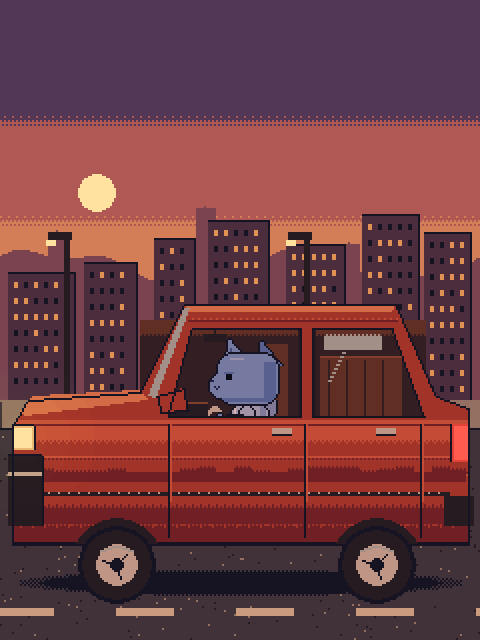
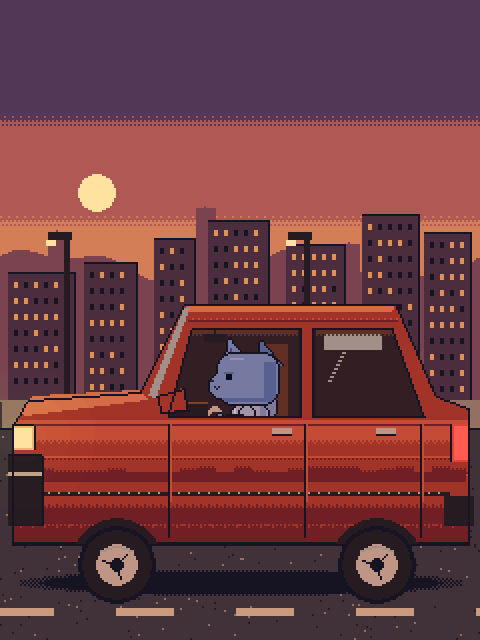
Carro: interior recortado pelas janelas, sem banco traseiro, e trava contra vazamento
- vehicle_back pintava o interior além do contorno da carroceria (teto, capô, coluna A) e ele
  aparecia sobre o fundo; agora é recortado pelas janelas (Car.FRONT_WINDOW/REAR_WINDOW, mesma
  geometria dos vãos da carroceria) e o banco traseiro foi retirado (decisão do usuário)
- TransportSceneQualityTest.interiorNeverLeaksOutsideTheWindows (flood fill do exterior da frente),
  theCarWindowsAreClosedOpenings e um controle sintético; interiores de quadro cheio não se aplicam
- car.aseprite regerado (fonte + cópia do app); goldens do carro regravados
  (car-scenes-v1 e car_day/car_night em transport-scenes-v1) e imagens de revisão do carro
- scene-art-status.json: carro bootstrap-v2, aprovado no chat em 09/10/2026
- docs: transport-art-progress e bíblia de arte §6

Changed region(s): [[0.6562, 0.5, 0.9062, 0.6562], [0.2812, 0.5, 0.375, 0.625]]

diff --git a/app/src/test/java/com/hoodie/app/pixel/transport/TransportSceneQualityTest.kt b/app/src/test/java/com/hoodie/app/pixel/transport/TransportSceneQualityTest.kt
@@ -221,6 +221,110 @@ class TransportSceneQualityTest {
         }
     }
 
+    // ───────────── Interior que não vaza ─────────────
+
+    private class CabinLeak(val pixels: Int, val box: String)
+
+    /** Transparente na frente do veículo e ligado à borda da tela = fora do veículo (4-vizinhança: contornos diagonais fecham). */
+    private fun exteriorOf(front: PixelBuffer): BooleanArray {
+        val w = front.width; val h = front.height
+        val out = BooleanArray(w * h)
+        val stack = ArrayDeque<Int>()
+        fun push(i: Int) { if (!out[i] && front.pixels[i] ushr 24 == 0) { out[i] = true; stack.addLast(i) } }
+        for (x in 0 until w) { push(x); push((h - 1) * w + x) }
+        for (y in 0 until h) { push(y * w); push(y * w + w - 1) }
+        while (stack.isNotEmpty()) {
+            val i = stack.removeLast(); val x = i % w; val y = i / w
+            if (x > 0) push(i - 1)
+            if (x < w - 1) push(i + 1)
+            if (y > 0) push(i - w)
+            if (y < h - 1) push(i + w)
+        }
+        return out
+    }
+
+    /** Silhueta livre: a frente do veículo não encosta em nenhuma borda (senão é interior de quadro cheio). */
+    private fun hasFreeSilhouette(front: PixelBuffer): Boolean {
+        val w = front.width; val h = front.height
+        for (x in 0 until w) if (front.pixels[x] ushr 24 != 0 || front.pixels[(h - 1) * w + x] ushr 24 != 0) return false
+        for (y in 0 until h) if (front.pixels[y * w] ushr 24 != 0 || front.pixels[y * w + w - 1] ushr 24 != 0) return false
+        return true
+    }
+
+    /** Pixels opacos de `vehicle_back` que a frente não cobre e que ficam fora do veículo. */
+    private fun interiorLeak(back: PixelBuffer, front: PixelBuffer): CabinLeak {
+        val w = back.width
+        val exterior = exteriorOf(front)
+        var n = 0; var x0 = Int.MAX_VALUE; var y0 = Int.MAX_VALUE; var x1 = -1; var y1 = -1
+        back.pixels.forEachIndexed { i, c ->
+            if (c ushr 24 != 0 && exterior[i]) { n++; x0 = min(x0, i % w); x1 = max(x1, i % w); y0 = min(y0, i / w); y1 = max(y1, i / w) }
+        }
+        return CabinLeak(n, if (n == 0) "-" else "x $x0..$x1, y $y0..$y1")
+    }
+
+    /** Aberturas fechadas da frente (janelas): regiões transparentes que não alcançam a borda. */
+    private fun enclosedOpenings(front: PixelBuffer): Int {
+        val w = front.width; val h = front.height
+        val exterior = exteriorOf(front)
+        val seen = BooleanArray(w * h)
+        var count = 0
+        for (start in 0 until w * h) {
+            if (seen[start] || exterior[start] || front.pixels[start] ushr 24 != 0) continue
+            count++
+            val stack = ArrayDeque<Int>().apply { addLast(start) }
+            seen[start] = true
+            while (stack.isNotEmpty()) {
+                val i = stack.removeLast(); val x = i % w; val y = i / w
+                fun visit(j: Int) { if (!seen[j] && !exterior[j] && front.pixels[j] ushr 24 == 0) { seen[j] = true; stack.addLast(j) } }
+                if (x > 0) visit(i - 1)
+                if (x < w - 1) visit(i + 1)
+                if (y > 0) visit(i - w)
+                if (y < h - 1) visit(i + w)
+            }
+        }
+        return count
+    }
+
+    /** O interior só aparece pelas janelas: nada de `vehicle_back` pode surgir fora da carroceria. */
+    @Test fun interiorNeverLeaksOutsideTheWindows() {
+        var checked = 0
+        scenes.keys.forEach { name ->
+            val art = SceneArtStore.get(name).also { assertNotNull("arte $name ausente", it) }!!
+            DayPeriod.entries.forEach { p ->
+                val back = art.layer("vehicle_back", p) ?: return@forEach
+                val front = art.layer("vehicle_front", p) ?: return@forEach
+                // Interior de quadro cheio (trem, metrô, ônibus): não há "fora do veículo" para vazar.
+                if (!hasFreeSilhouette(front)) return@forEach
+                checked++
+                val leak = interiorLeak(back, front)
+                assertEquals("$name/$p: interior vaza para fora da carroceria (${leak.pixels} px em ${leak.box})", 0, leak.pixels)
+            }
+        }
+        assertTrue("a trava não pode se desligar sozinha: nenhuma cena com silhueta livre foi verificada", checked >= DayPeriod.entries.size)
+    }
+
+    @Test fun theCarWindowsAreClosedOpenings() {
+        val front = SceneArtStore.get("car")!!.layer("vehicle_front", DayPeriod.DAY)!!
+        assertTrue("o carro precisa ter silhueta livre", hasFreeSilhouette(front))
+        val openings = enclosedOpenings(front)
+        assertTrue("janelas do carro: $openings abertura(s) fechada(s); esperadas ao menos 2 (frente e traseira)", openings >= 2)
+    }
+
+    /** Controle: a trava reprova um interior maior que a janela e aceita o mesmo interior recortado. */
+    @Test fun theLeakGuardCatchesALeakAndAcceptsAClippedInterior() {
+        // Escreve direto nos pixels: box() com cor transparente não apaga nada.
+        fun raw(b: PixelBuffer, x0: Int, y0: Int, x1: Int, y1: Int, c: Int) { for (y in y0..y1) for (x in x0..x1) b.pixels[y * b.width + x] = c }
+        val front = PixelBuffer(60, 40)
+        raw(front, 10, 10, 49, 29, 0xFF884433.toInt())      // carroceria
+        raw(front, 20, 15, 39, 24, 0)                         // janela (transparente, fechada)
+        val leaking = PixelBuffer(60, 40).also { raw(it, 14, 6, 45, 26, 0xFF3B2C34.toInt()) } // passa do teto (y 6..9)
+        val clipped = PixelBuffer(60, 40).also { raw(it, 20, 15, 39, 24, 0xFF3B2C34.toInt()) }
+        assertTrue(hasFreeSilhouette(front))
+        assertEquals(1, enclosedOpenings(front))
+        assertEquals("o vazamento deveria ser de 32 x 4 px", 32 * 4, interiorLeak(leaking, front).pixels)
+        assertEquals(0, interiorLeak(clipped, front).pixels)
+    }
+
     // ───────────── Revisão humana ─────────────
 
     private val status by lazy { ArtReviewStatus.parse(File("../assets-source/scenes/transport/scene-art-status.json").readText()) }

diff --git a/app/src/test/java/com/hoodie/app/pixel/art/SceneBootstrapStudio.kt b/app/src/test/java/com/hoodie/app/pixel/art/SceneBootstrapStudio.kt
@@ -56,6 +56,12 @@ object SceneBootstrapStudio {
             }
         }
         fun outlinePoly(c: Int, vararg p: Pair<Int, Int>) { for (i in p.indices) { val (a, b2) = p[i]; val (x1, y1) = p[(i + 1) % p.size]; line(a, b2, x1, y1, c) } }
+        /** Apaga tudo o que fica fora dos polígonos (mesma regra de preenchimento de [poly]): o que não está na janela nunca vira pixel de interior. */
+        fun clipTo(vararg polys: List<Pair<Int, Int>>) {
+            val keep = Canvas(PixelBuffer(b.width, b.height))
+            polys.forEach { keep.poly(1, *it.toTypedArray()) }
+            for (i in b.pixels.indices) if (keep.b.pixels[i] == 0) b.pixels[i] = 0
+        }
     }
 
     // ───────────── Paleta do carro (≤ 24 cores por período) ─────────────
@@ -101,6 +107,9 @@ object SceneBootstrapStudio {
         const val WHEEL_Y = 282
         const val WHEEL_R = 19
         val WHEELS = listOf(58, 188)
+        /** Vãos das janelas: usados pela carroceria (recorte) e pelo interior (recorte), para nunca saírem de sincronia. */
+        val FRONT_WINDOW = listOf(WIN_FRONT_X to WIN_TOP, WIN_MID_X to WIN_TOP, WIN_MID_X to BELT_Y - 2, 84 to BELT_Y - 2)
+        val REAR_WINDOW = listOf(WIN_MID_X + 6 to WIN_TOP, WIN_REAR_X to WIN_TOP, 212 to BELT_Y - 2, WIN_MID_X + 6 to BELT_Y - 2)
     }
 
     private fun hash(a: Int, b: Int): Int {
@@ -188,9 +197,7 @@ object SceneBootstrapStudio {
         // Encosto do motorista (atrás do Hoodie) e banco traseiro.
         rect(hoodieFeet.first + 6, Car.WIN_TOP + 8, hoodieFeet.first + 18, Car.BELT_Y, CarPalette.SEAT)
         vline(hoodieFeet.first + 6, Car.WIN_TOP + 8, Car.BELT_Y, CarPalette.SEAT_LIGHT)
-        rect(Car.WIN_MID_X + 10, Car.WIN_TOP + 14, Car.WIN_REAR_X + 4, Car.BELT_Y, CarPalette.SEAT)
-        for (x in Car.WIN_MID_X + 14..Car.WIN_REAR_X step 9) vline(x, Car.WIN_TOP + 16, Car.BELT_Y, CarPalette.INTERIOR)
-        hline(Car.WIN_MID_X + 10, Car.WIN_REAR_X + 4, Car.WIN_TOP + 14, CarPalette.SEAT_LIGHT)
+        // Sem banco traseiro: o interior visto pela janela traseira é só o forro escuro (decisão do usuário, 09/10/2026).
         // Janela do outro lado: céu recortado, pequeno e distante.
         rect(Car.WIN_MID_X + 12, Car.WIN_TOP + 3, Car.WIN_REAR_X - 6, Car.WIN_TOP + 10, CarPalette.GLASS_SHINE)
         // Forro do teto, retrovisor interno e borda do painel: o interior não fica chapado.
@@ -205,6 +212,8 @@ object SceneBootstrapStudio {
         ellipse(steering.first - 2, steering.second + 3, 5, 10, CarPalette.CHROME, ring = true)
         rect(Car.WIN_FRONT_X - 24, Car.BELT_Y - 8, steering.first - 6, Car.BELT_Y, CarPalette.TIRE)
         set(Car.WIN_FRONT_X - 16, Car.BELT_Y - 6, CarPalette.HEADLIGHT)
+        // O interior só pode aparecer pelas janelas: o que passava do contorno (teto, capô, coluna A) vazava sobre o fundo.
+        clipTo(Car.FRONT_WINDOW, Car.REAR_WINDOW)
     }
 
     /** Carroceria em três quartos com os vãos das janelas abertos (o interior aparece por baixo). */
@@ -219,8 +228,8 @@ object SceneBootstrapStudio {
         hline(94, 198, Car.ROOF_Y + 8, CarPalette.BODY_DARK)
         for (x in 94..198) if (x % 3 == 0) set(x, Car.ROOF_Y + 7, CarPalette.BODY_LIGHT)
         // Vãos das janelas (transparentes = interior).
-        poly(0, Car.WIN_FRONT_X to Car.WIN_TOP, Car.WIN_MID_X to Car.WIN_TOP, Car.WIN_MID_X to Car.BELT_Y - 2, 84 to Car.BELT_Y - 2)
-        poly(0, Car.WIN_MID_X + 6 to Car.WIN_TOP, Car.WIN_REAR_X to Car.WIN_TOP, 212 to Car.BELT_Y - 2, Car.WIN_MID_X + 6 to Car.BELT_Y - 2)
+        poly(0, *Car.FRONT_WINDOW.toTypedArray())
+        poly(0, *Car.REAR_WINDOW.toTypedArray())
         // Reflexo diagonal no vidro traseiro (luz da esquerda).
         for (k in 0..10) { set(Car.WIN_MID_X + 14 + k, Car.WIN_TOP + 26 - k * 2, CarPalette.GLASS_SHINE); set(Car.WIN_MID_X + 15 + k, Car.WIN_TOP + 26 - k * 2, CarPalette.GLASS_SHINE) }
         // Linha de cintura com brilho e vinco inferior.
@@ -263,8 +272,8 @@ object SceneBootstrapStudio {
         rect(0, 273, W - 1, H - 1, 0)
         // Contorno externo da silhueta.
         outlinePoly(o, 6 to 214, 14 to 200, 70 to 196, 92 to Car.ROOF_Y, 198 to Car.ROOF_Y, 218 to 198, 234 to 204, 234 to 272, 6 to 272)
-        outlinePoly(o, Car.WIN_FRONT_X to Car.WIN_TOP, Car.WIN_MID_X to Car.WIN_TOP, Car.WIN_MID_X to Car.BELT_Y - 2, 84 to Car.BELT_Y - 2)
-        outlinePoly(o, Car.WIN_MID_X + 6 to Car.WIN_TOP, Car.WIN_REAR_X to Car.WIN_TOP, 212 to Car.BELT_Y - 2, Car.WIN_MID_X + 6 to Car.BELT_Y - 2)
+        outlinePoly(o, *Car.FRONT_WINDOW.toTypedArray())
+        outlinePoly(o, *Car.REAR_WINDOW.toTypedArray())
     }
 
     /** Rodas e sombra: fixas no chão (não balançam com a carroceria). */

diff --git a/docs/transport-art-progress.md b/docs/transport-art-progress.md
@@ -6,7 +6,7 @@ frente e barra no primeiro plano — enquadramento do plano, sem rodada de thumb
 
 | Cena | Estado | Fonte | Revisão humana |
 |---|---|---|---|
-| Carro | aprovado (bootstrap-v1) | `assets-source/scenes/transport/car.aseprite` | aprovado no chat em 07/10/2026 |
+| Carro | aprovado (bootstrap-v2) | `assets-source/scenes/transport/car.aseprite` | aprovado no chat em 07/10/2026; v2 aprovada em 09/10/2026 |
 | Trem | aprovado (bootstrap-v1) | `assets-source/scenes/transport/train.aseprite` | aprovado no chat em 07/10/2026 |
 | Metrô | aprovado (bootstrap-v1) | `assets-source/scenes/transport/metro.aseprite` | aprovado no chat em 07/10/2026 |
 | Ônibus | aprovado (bootstrap-v1) | `assets-source/scenes/transport/bus.aseprite` | aprovado no chat em 07/10/2026 |
@@ -39,3 +39,9 @@ em pé do primeiro plano é uma silhueta pintada na arte (`vehicle_front`), sem 
 - O Hoodie dirigindo (`assets-source/hoodie/hoodie_transport.aseprite`, CAR_* de lado) foi aprovado no chat e entrou
   no APK como o grupo `transport` (`ArtBootstrapStudio.GROUPS`, `RequiredShippedAnimations`, `art-status.json`, CI).
 - Goldens regravados com as cenas aprovadas: `transport-scenes-v1.sha256` e `car-scenes-v1.sha256`.
+- **Carro v2 (09/10/2026):** o interior (`vehicle_back`) passava do contorno da carroceria (teto, capô e coluna A) e
+  aparecia sobre o fundo; agora é recortado pelas janelas (`Car.FRONT_WINDOW`/`REAR_WINDOW`, a mesma geometria que abre os
+  vãos da carroceria) e o banco de trás foi retirado. Nova trava `interiorNeverLeaksOutsideTheWindows` (flood fill do
+  exterior da frente × `vehicle_back`). Trem, metrô e ônibus são interiores de quadro cheio (a frente toca a borda da
+  tela) e a trava não se aplica a eles. Goldens do carro regravados (12 hashes + `car_day`/`car_night` em
+  `transport-scenes-v1.sha256`) e imagens `docs/transport-art/review/car-*.png` atualizadas.

diff --git a/docs/transport-art-bible.md b/docs/transport-art-bible.md
@@ -53,7 +53,7 @@ De baixo para cima, com estes nomes exatos:
 | Camada | Conteúdo |
 |---|---|
 | `bg_far`, `bg_mid`, `bg_near` | Tiles horizontais sem emenda, com largura de 240 px ou mais |
-| `vehicle_back` | Interior, vidro, banco de trás |
+| `vehicle_back` | Interior e vidro. **Só pode existir onde a frente do veículo deixa uma abertura fechada** (janelas): nada de interior fora da silhueta. Em veículo visto de fora (carro) isso é verificado por `TransportSceneQualityTest.interiorNeverLeaksOutsideTheWindows` |
 | `actors` | **Vazia.** O renderer insere o Hoodie e os NPCs aqui |
 | `vehicle_front` | Porta, encosto da frente, barras |
 | `foreground` | Oclusores soltos (NPC em pé, retrovisor) |
